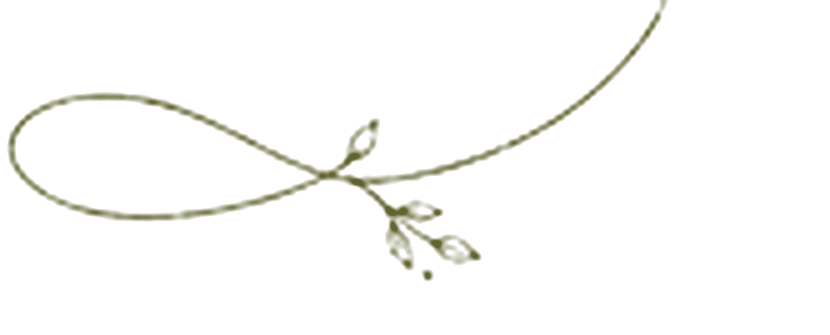
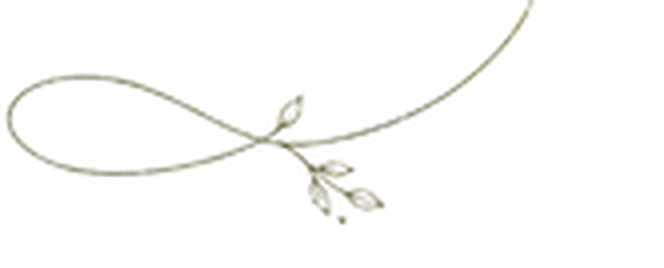
Flèches du programme : les deux modèles de l'invitation, rendu fidèle
Claude-Session: https://claude.ai/code/session_01QrDSt8mKtao2LUWf4nzVT7

diff --git a/index.html b/index.html
@@ -149,7 +149,7 @@ h3{font-size:1.05rem;margin:0 0 .3rem;font-weight:700}
 .step .place{margin:0;font-size:.92rem;line-height:1.45}
 .step .place em{display:block;font-family:var(--script);font-style:normal;font-size:1.2rem;color:var(--olive-soft)}
 .zig{display:block;width:auto;height:min(15vh,140px);margin:0 auto;transform:scaleY(-1)}
-.zig.flip{transform:scale(-1,-1)}
+.zig.plain{transform:none}
 .transit{text-align:center;font-style:italic;font-size:.88rem;margin:0}
 .timeline{position:relative}
 .loops{display:none;position:absolute;left:0;top:0;width:100%;height:100%;overflow:visible;pointer-events:none}
@@ -384,7 +384,7 @@ body.on-conn #edit-fab{display:none}
             <p class="place">Le Clos du Colombier<em>Fontenay-Trésigny</em></p>
           </div>
         </article>
-        <img class="zig flip" src="img/fleche-v.png" alt="" aria-hidden="true">
+        <img class="zig plain" src="img/fleche-a-v.png" alt="" aria-hidden="true">
         <article class="step s3">
           <img class="watercolor" src="img/salle.png" alt="Aquarelle de la salle de réception" width="468" height="390">
           <div class="txt">
@@ -877,10 +877,12 @@ function drawLoops(){
   if (getComputedStyle(box).display === "none") return;
   const o = tl.getBoundingClientRect(), im = [...tl.querySelectorAll(".watercolor")].map(visRect);
   for (let i = 0; i < 2; i++) {
-    const A = im[i], B = im[i + 1], x1 = A.r + 12 - o.left, x2 = B.l - 12 - o.left, gap = x2 - x1;
+    const A = im[i], B2 = im[i + 1], x1 = A.r + 12 - o.left, x2 = B2.l - 12 - o.left, gap = x2 - x1;
     if (gap < 50) continue;
-    const w = Math.min(gap * 1.05, 360), h = w * 67 / 166, cx = (x1 + x2) / 2, cy = (A.cy + B.cy) / 2 - o.top;
-    box.append(el("img", { class: "arrow", src: "img/fleche-h.png", alt: "", style: `left:${cx - w / 2}px;top:${cy - h / 2}px;width:${w}px` }));
+    const B = i === 1;   // 2e flèche : l'autre modèle
+    const w = B ? Math.min(gap * .82, 290) : Math.min(gap * .85, 330), h = B ? w * 428 / 492 : w * 268 / 664;
+    const cx = (x1 + x2) / 2, cy = (A.cy + B2.cy) / 2 - o.top;
+    box.append(el("img", { class: "arrow", src: B ? "img/fleche-b-h.png" : "img/fleche-h.png", alt: "", style: `left:${cx - w / 2}px;top:${cy - h / 2}px;width:${w}px` }));
   }
 }
 
